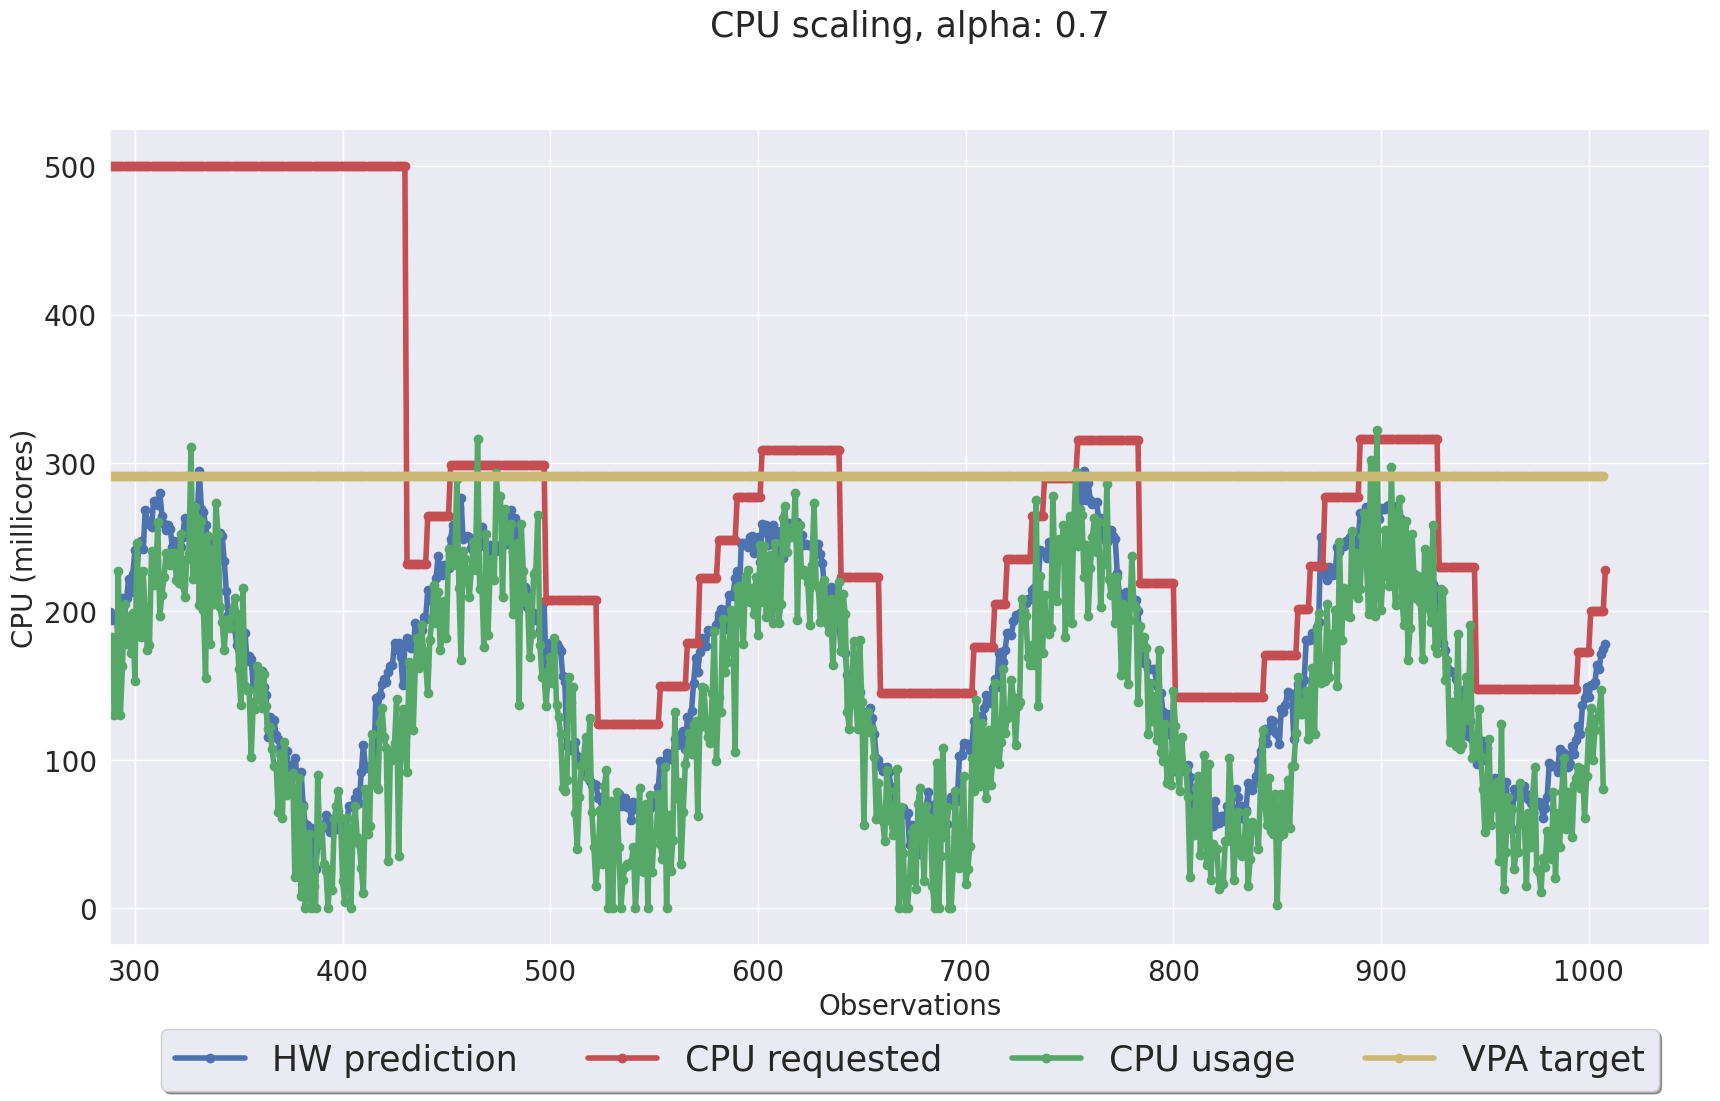
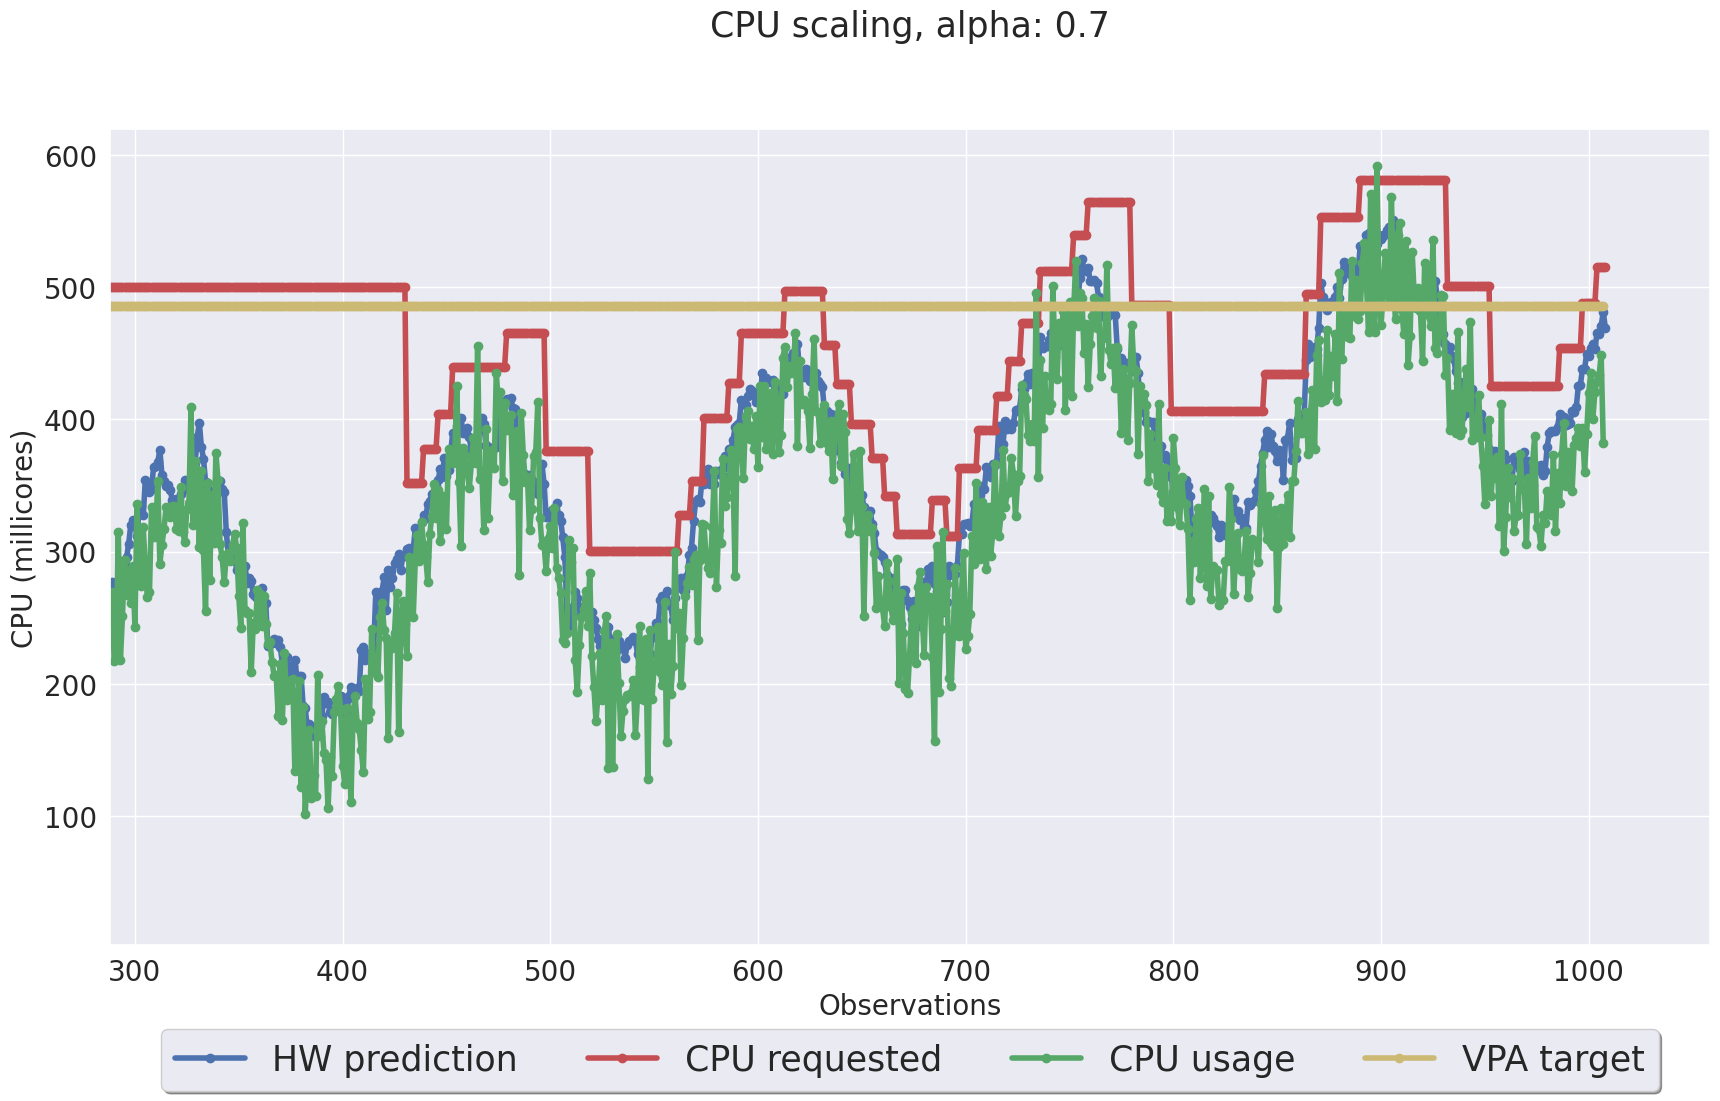
te

Changed region(s): [[0.0308, 0.1235, 0.9552, 0.8338], [0.0308, 0.7411, 0.0616, 0.772], [0.0308, 0.6794, 0.0616, 0.7103]]

diff --git a/kube/python-test/t3.py b/kube/python-test/t3.py
@@ -209,7 +209,7 @@ def main():
     alpha = float(args.alpha)
     series = series * alpha
     np.random.seed(0)
-    noise = np.random.normal(0,300,len(series))*(1-alpha)
+    noise = np.random.normal(0,100,len(series))*(1-alpha)
     series = [sum(x) for x in zip(noise, series)]
     series = [int(i) for i in series]
 
@@ -217,8 +217,8 @@ def main():
     # series = [sum(x) for x in zip(noise, series)]
     # series = [int(i) for i in series]
     add = np.arange(len(series))
-    add = [x*0.2 for x in add]
-    #series = [sum(x) for x in zip(add, series)]
+    add = [x*0.3 for x in add]
+    series = [sum(x) for x in zip(add, series)]
     series = [0 if i < 0 else i for i in series]
 
     test_last = s_len*2
